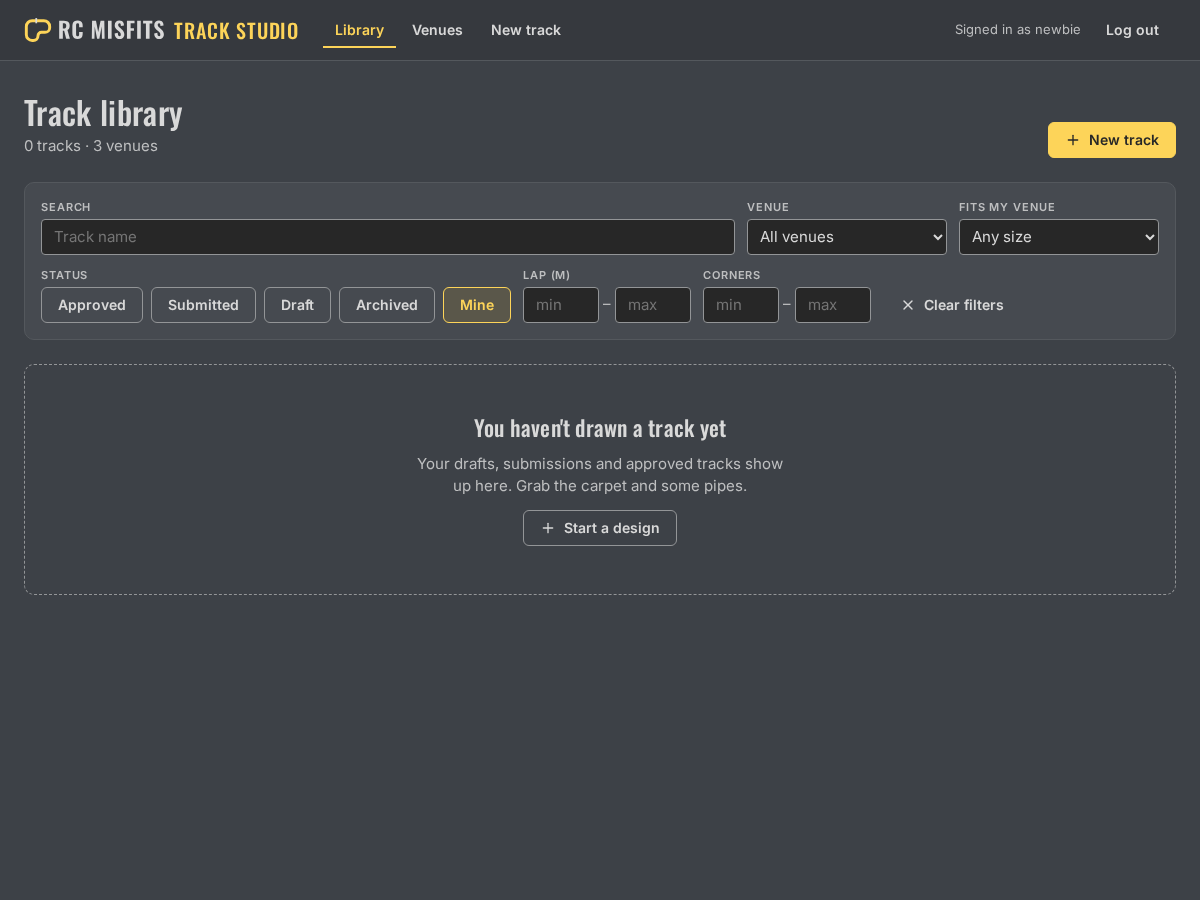
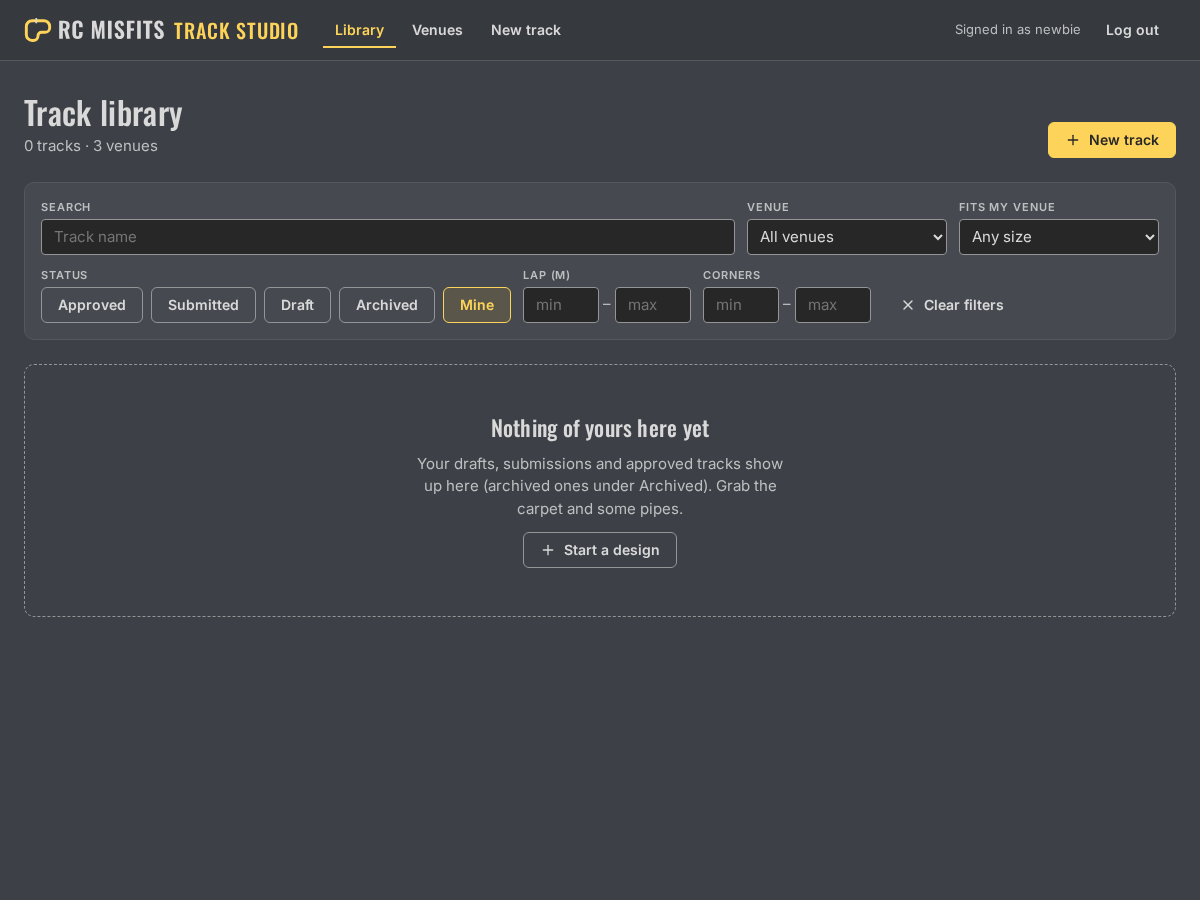
Library: test Mine with fits positively; empty-state copy covers archived tracks (#27)

Changed region(s): [[0.37, 0.5289, 0.6475, 0.6222], [0.4008, 0.4667, 0.6167, 0.4978]]

diff --git a/apps/server/test/tracks.test.ts b/apps/server/test/tracks.test.ts
@@ -253,8 +253,18 @@ describe("saving tracks", () => {
     expect(await ids("?author=me&minLap=100")).toEqual([]);
     expect(await ids("?author=me&maxLap=100")).toEqual([a.track.id]);
     expect(await ids("?author=me&venue=venue-2")).toEqual([]);
-    // fits= lists approved tracks only; none of alice's are approved
+    // fits= lists approved tracks only; none of alice's are approved yet
     expect(await ids("?author=me&fits=venue-2")).toEqual([]);
+  });
+
+  it("author=me with fits lists only the user's approved tracks that fit", async () => {
+    const { app, alice, org } = await setup();
+    const a = await createAs(app, alice);
+    expect((await req(app, "POST", `/api/tracks/${a.track.id}/approve`, org)).statusCode).toBe(200);
+    const ids = async (qs: string) => ((await req(app, "GET", `/api/tracks${qs}`, alice)).json().tracks as { id: string }[]).map((t) => t.id);
+    expect(await ids("?fits=venue-2")).toHaveLength(3);
+    expect(await ids("?author=me&fits=venue-2")).toEqual([a.track.id]);
+    expect(await ids("?author=me&fits=venue-3")).toEqual([]);
   });
 
   it("author=me signed out -> 401", async () => {

diff --git a/apps/web/src/components/LibraryResults.tsx b/apps/web/src/components/LibraryResults.tsx
@@ -44,8 +44,8 @@ export function LibraryResults({ list, fits, fitVenueName, mine, anyFilter, onCl
     // Mine is the only filter on: nothing of theirs to narrow down, so invite them to start one
     if (mine && !anyFilter)
       return (
-        <EmptyState title="You haven't drawn a track yet" action={newTrack("Start a design")}>
-          Your drafts, submissions and approved tracks show up here. Grab the carpet and some pipes.
+        <EmptyState title="Nothing of yours here yet" action={newTrack("Start a design")}>
+          Your drafts, submissions and approved tracks show up here (archived ones under Archived). Grab the carpet and some pipes.
         </EmptyState>
       );
     if (anyFilter)

diff --git a/apps/web/test/ui.test.tsx b/apps/web/test/ui.test.tsx
@@ -186,7 +186,7 @@ describe("library results", () => {
   it("Mine with no tracks → invite to start a design", () => {
     const h = html(<LibraryResults {...props} mine list={loadable({ data: { tracks: [] } })} />);
     expect(h).toContain("ts-empty");
-    expect(text(h)).toContain("You haven't drawn a track yet");
+    expect(text(h)).toContain("Nothing of yours here yet");
     expect(h).toMatch(/<a [^>]*href="\/new"[^>]*>.*Start a design<\/a>/);
   });
 
